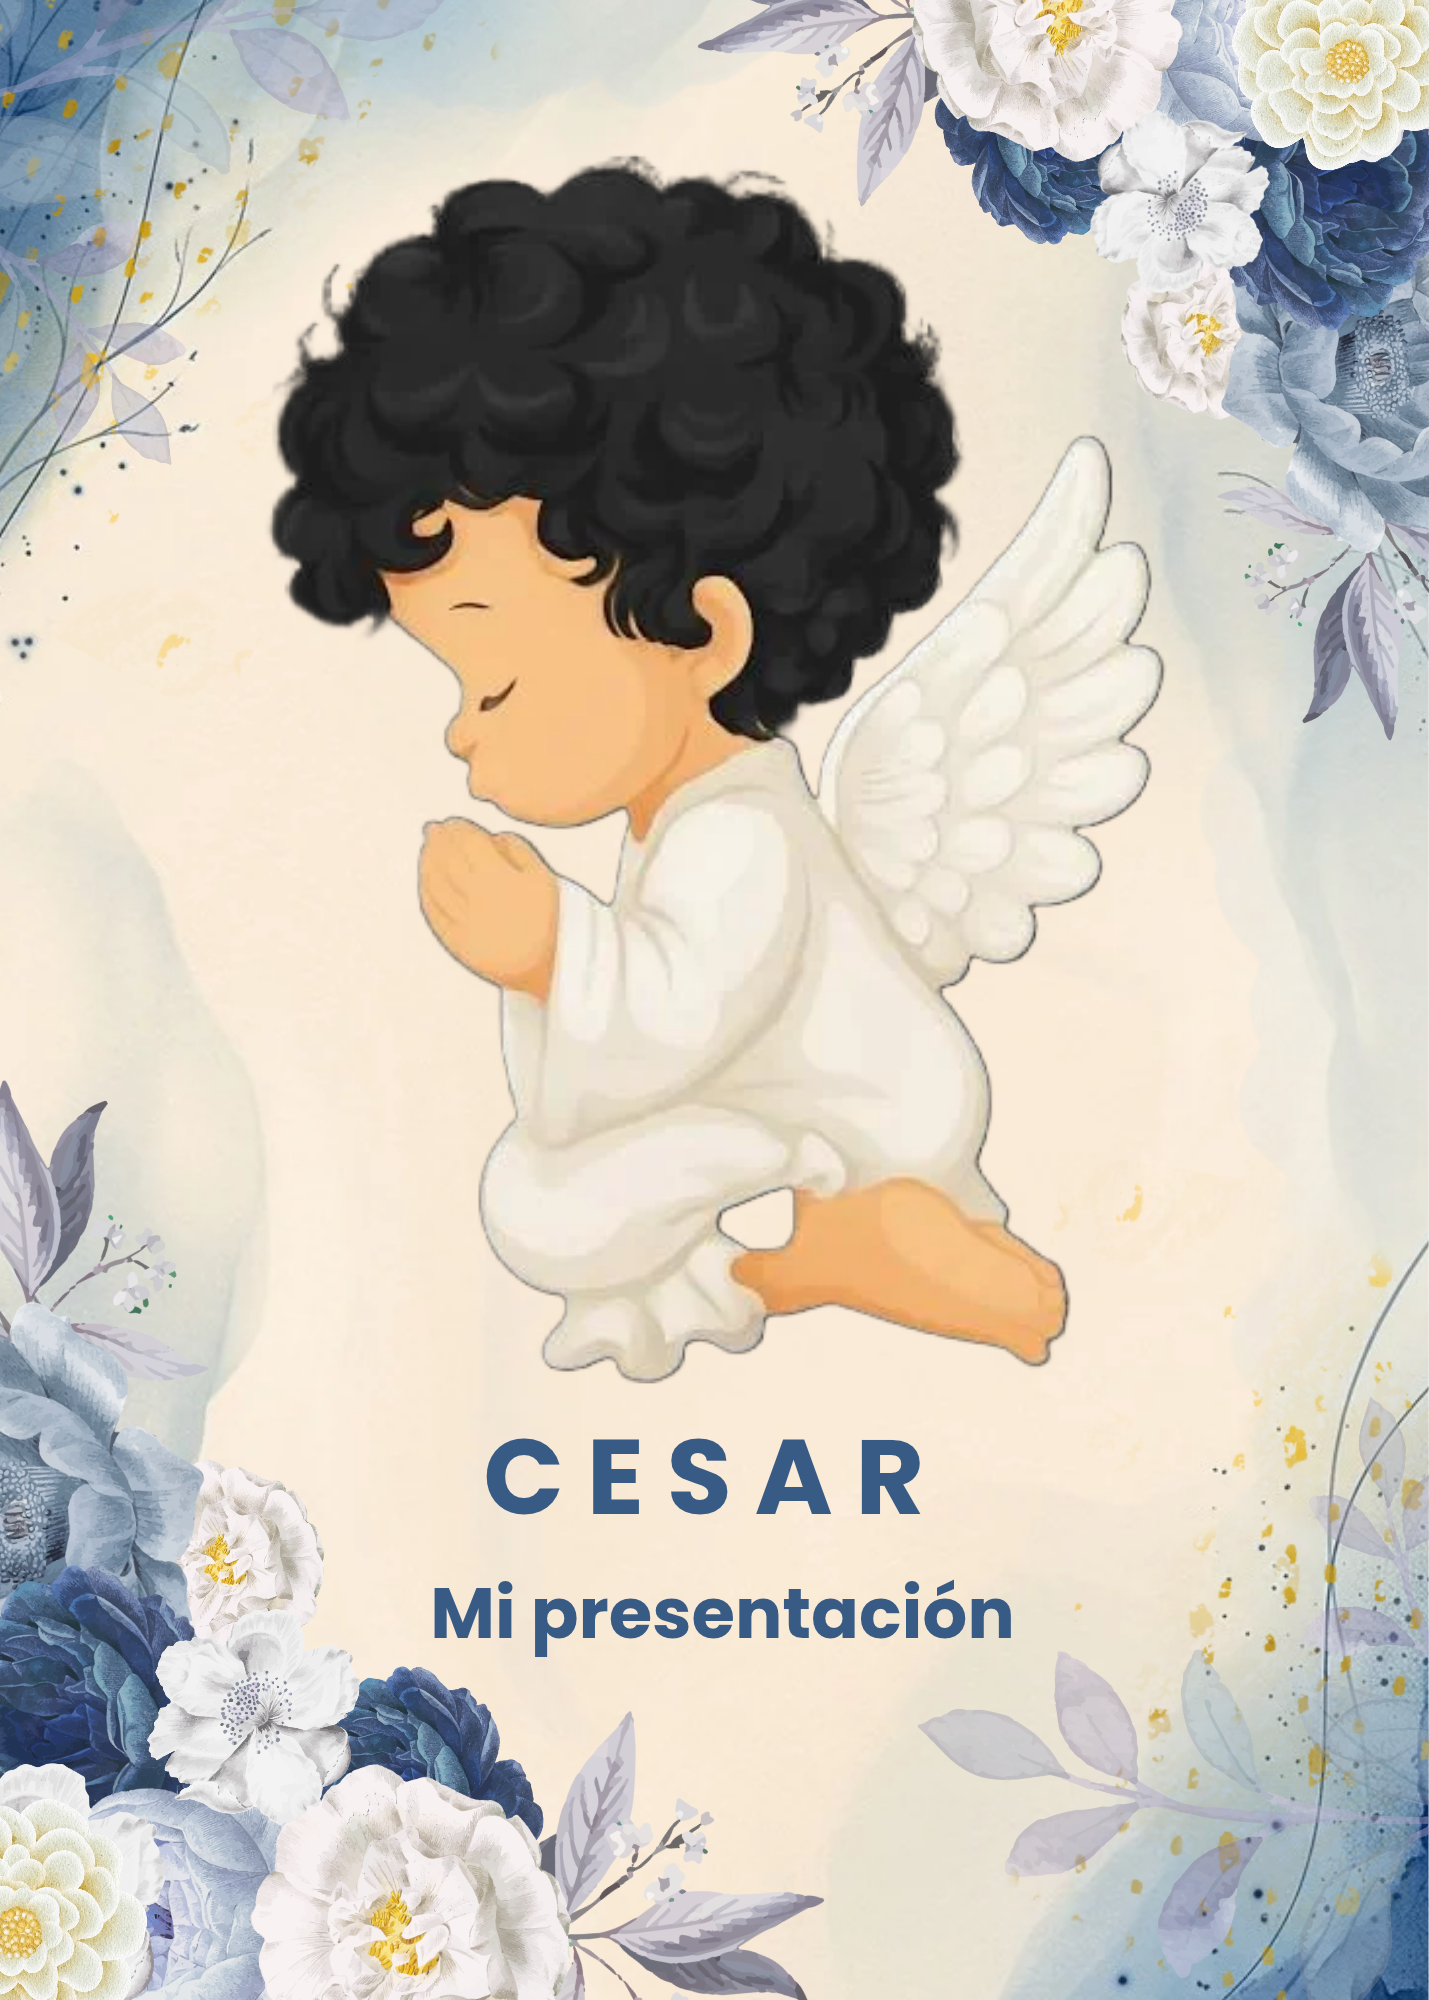
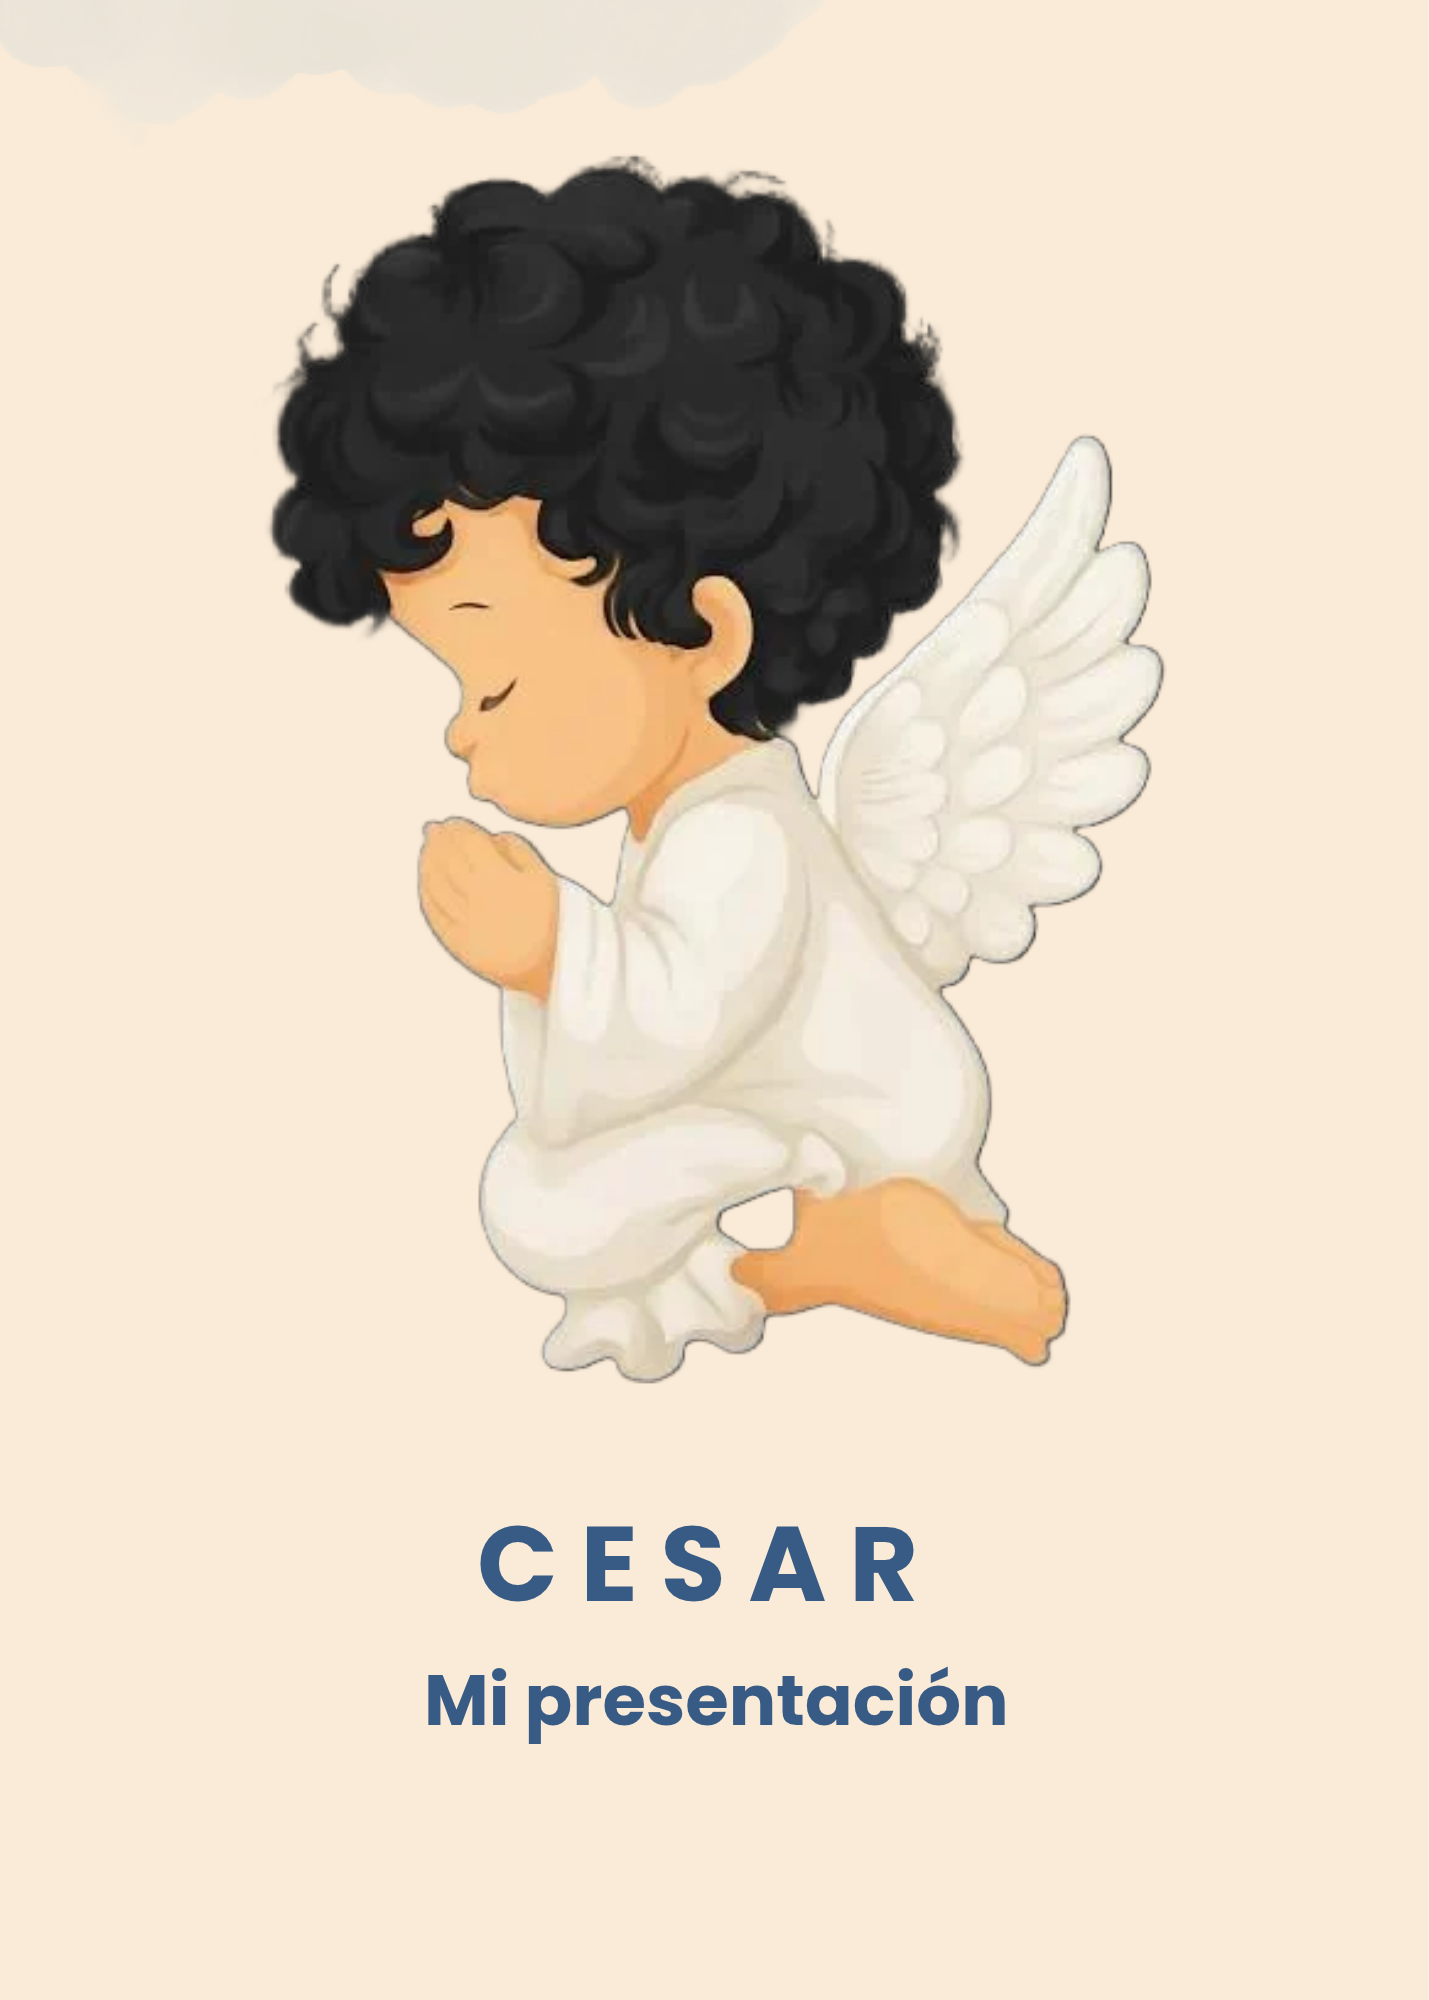
Cambios en el nombre de la madrina cursiva

diff --git a/index.html b/index.html
@@ -18,7 +18,13 @@
     <title>
         Caren & Julio| Invitación
     </title>
-
+    <!-- Fuente cursiva para los nombres -->
+    <link rel="preconnect" href="https://fonts.googleapis.com">
+    <link rel="preconnect" href="https://fonts.gstatic.com" crossorigin>
+     <link
+        href="https://fonts.googleapis.com/css2?family=Ephesis&display=swap"
+        rel="stylesheet"
+    >
     <link
         rel="stylesheet"
         href="style.css"
@@ -92,13 +98,6 @@
 
         <br>
 
-         <h1>
-            Cesar  
-        </h1>
-
-          <p class="hero-location">
-             Mi Presentación
-        </p>
 
 
          <p class="hero-date">
@@ -536,7 +535,7 @@
                     </span>
 
                     <h3>
-                        Tania Wendoly Chavez Garcia
+                        Tania Wendolyne  Chavez Garcia
                     </h3>
 
                 </article>
@@ -1005,6 +1004,13 @@
 
             <p>
                 Si lo deseas,puedes acompañarnos usando algún tono de Azul.
+            </p>
+
+            <p>
+                Esta sugerencia es completamente opcional.
+            </p>
+            <p>
+                Lo mas importante es que te sientas cómodo y disfrutes de este día  tan especial con nostros .
             </p>
  <!-- COLORES A EVITAR -->
 

diff --git a/style.css b/style.css
@@ -201,7 +201,7 @@ body {
 
 
 .hero h1 {
-
+ Font-family: "Ephesis", cursive;
     font-size:
         clamp(3rem, 10vw, 7rem);
 
